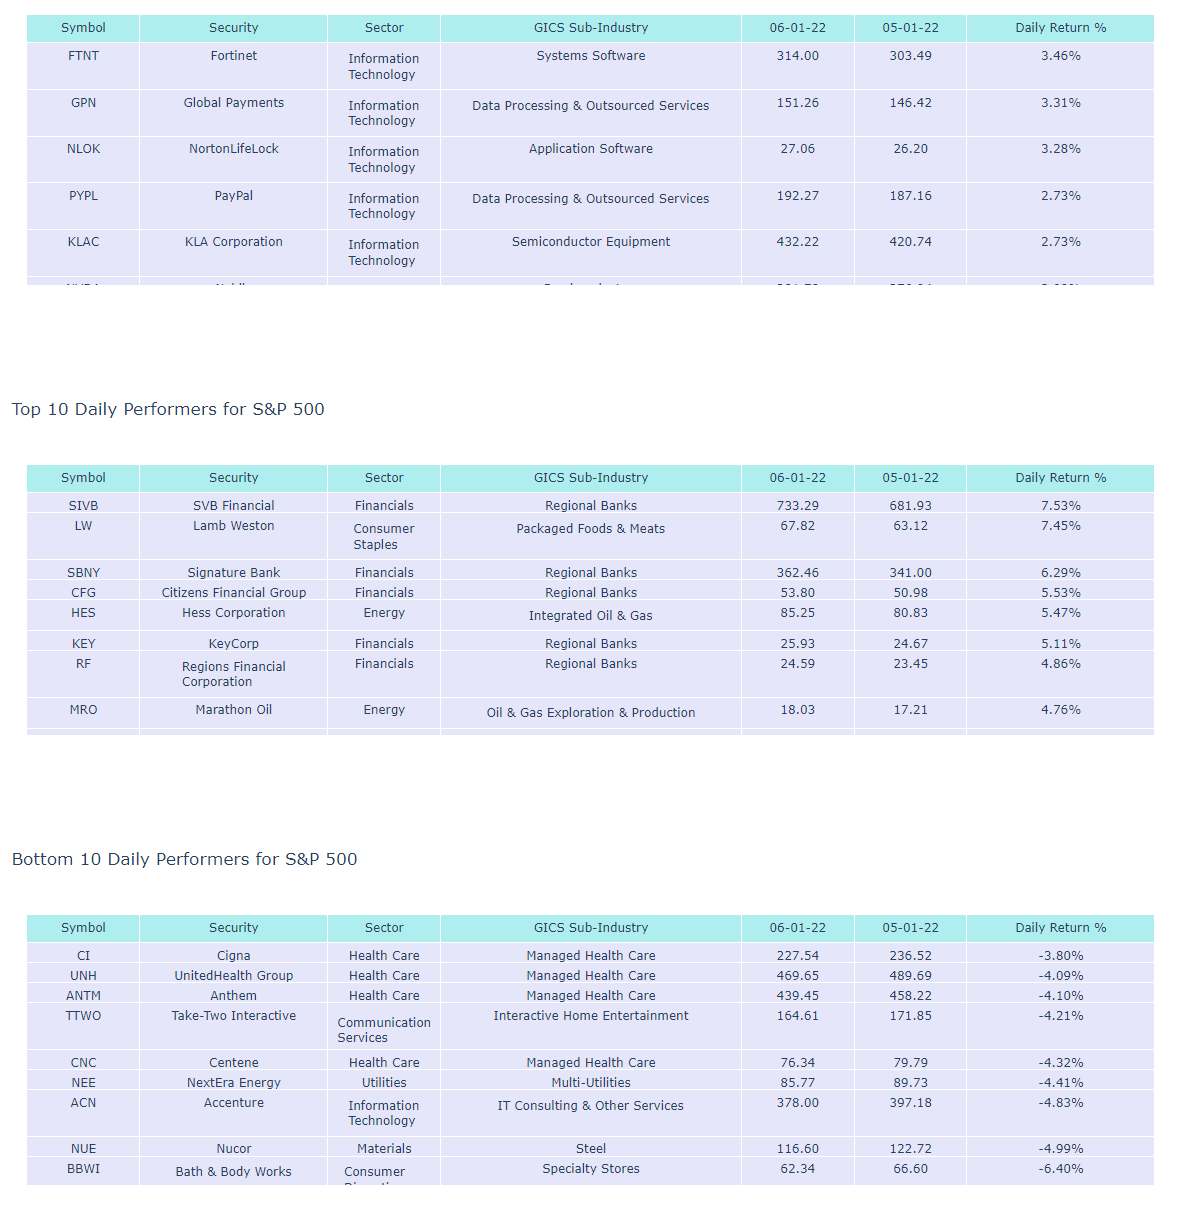
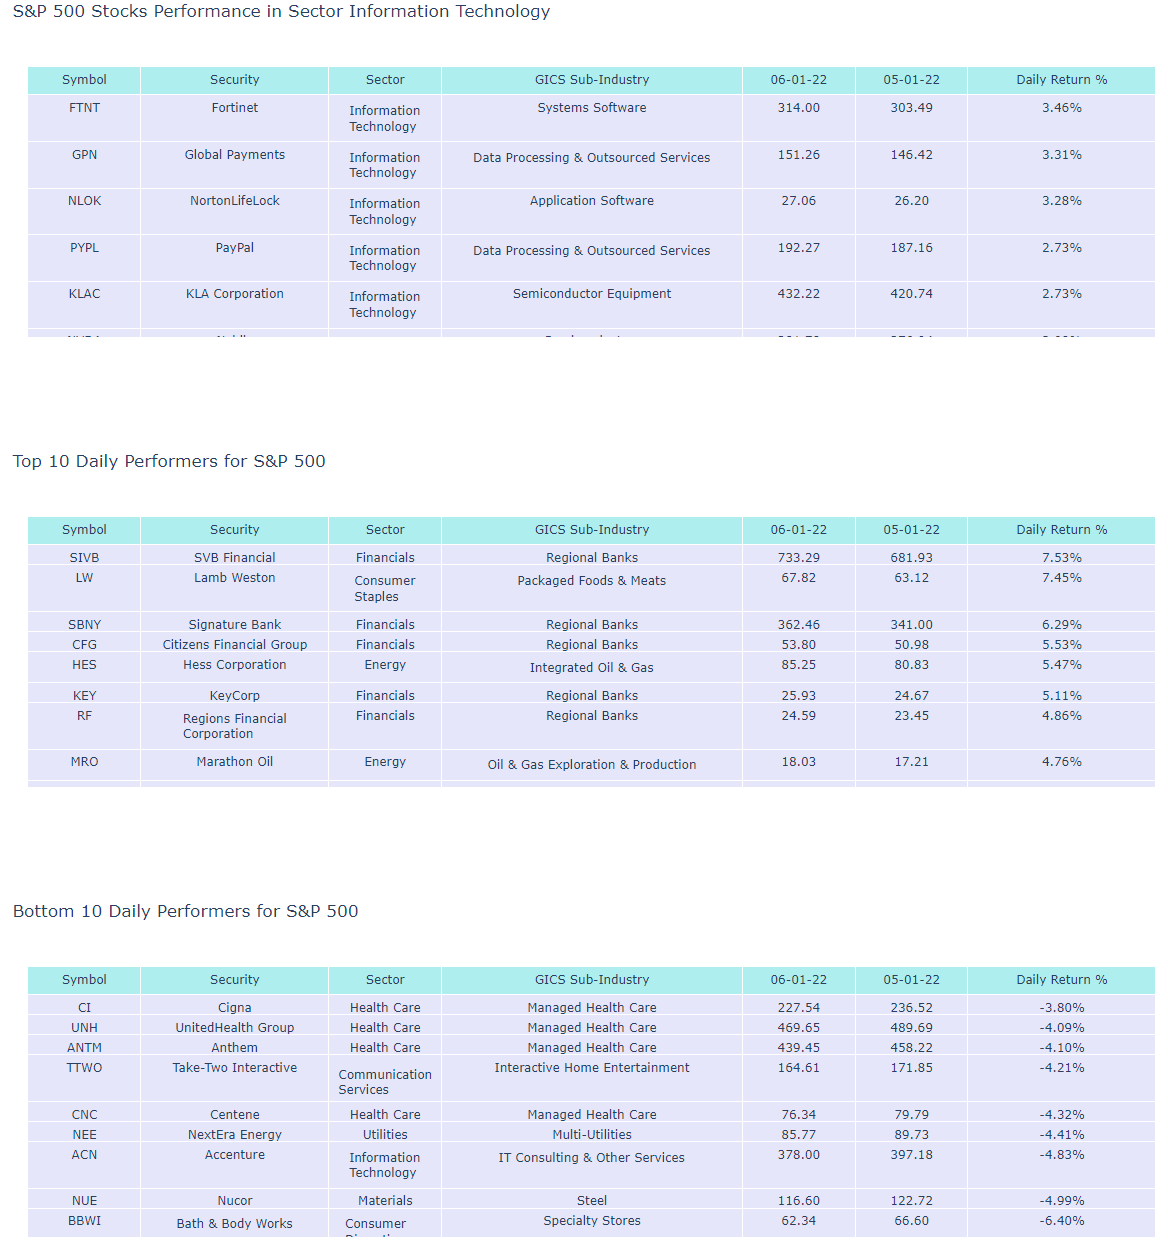
readme changes

Changed region(s): [[0.0, 0.3375, 1.0, 0.6443], [0.0, 0.0, 1.0, 0.2761], [0.0, 0.7056, 1.0, 1.0]]

diff --git a/README.md b/README.md
@@ -38,7 +38,7 @@ To run the app, open cmd / conda Navigator, navigate into the app Folder and run
 Copy the http path + '/inputSymbol' to get to the app's homepage. In my case it would look like **http://127.0.0.1:5000/inputSymbol**
 
 ### Initial View:
-THe homepage screen will look per below. Write the ticker of interest in the input field to get the basic view of the stock characteristics.
+The homepage screen will look per below. Write the ticker of interest in the input field to get the basic view of the stock characteristics.
 
 ![InputScreen](https://github.com/acp91/Predicting_Stock_Prices/blob/main/images_git/InputScreen.png)
 
@@ -48,3 +48,17 @@ If you press **RECOMMEND** without ticking any of the tickboxes, this is the vie
 * Main statistics, such as current price, return over a few periods of interest, target analyst price, upside (return based on target analyst price and current price) and the current analyst recommendation
 
 ![DefaultView](https://github.com/acp91/Predicting_Stock_Prices/blob/main/images_git/DefaultView.png)
+
+All the data that is shown here is pulled using yahoo_fin package for Python. The idea behind the **Initial View** screen is to give a rough idea to the user how the stock price has been performing and what would be the right move (i.e. whether to buy, hold or sell the stock).
+
+Each of the tickboxes provides further information to the user on whether or not the stock is currently a buy, hold or sell as well as what might be other stocks of interest given the selected stock.
+
+### Display S&P 500 Index Performance
+User can additional tick any number of tickboxes. If **Display S&P 500 Index Performance** is ticked, the following information will be available:
+* Performance of the stocks within the same Sector for S&P 500 Stocks
+* Top 10 daily performing stocks for S&P 500 (i.e. highest daily returns)
+* Bottom 10 daily performing stocks for S&P 500 (i.e. worst daily loses)
+
+![ShowIndexInfo](https://github.com/acp91/Predicting_Stock_Prices/blob/main/images_git/ShowIndexInfo.png)
+
+These additional information can provide more clarity and give a more realistic view of how selected stock is performing. Is it performing well for its sector? How is it performing compared to the overall market? Of course this type of information is more relevant for larger companies as we are comparing it to the S&P 500 stocks. While this is something that could be improved for the app (i.e. show performance of other indices as well), it can still be useful for comparison purposes even when low or mid cap stock is selected.
